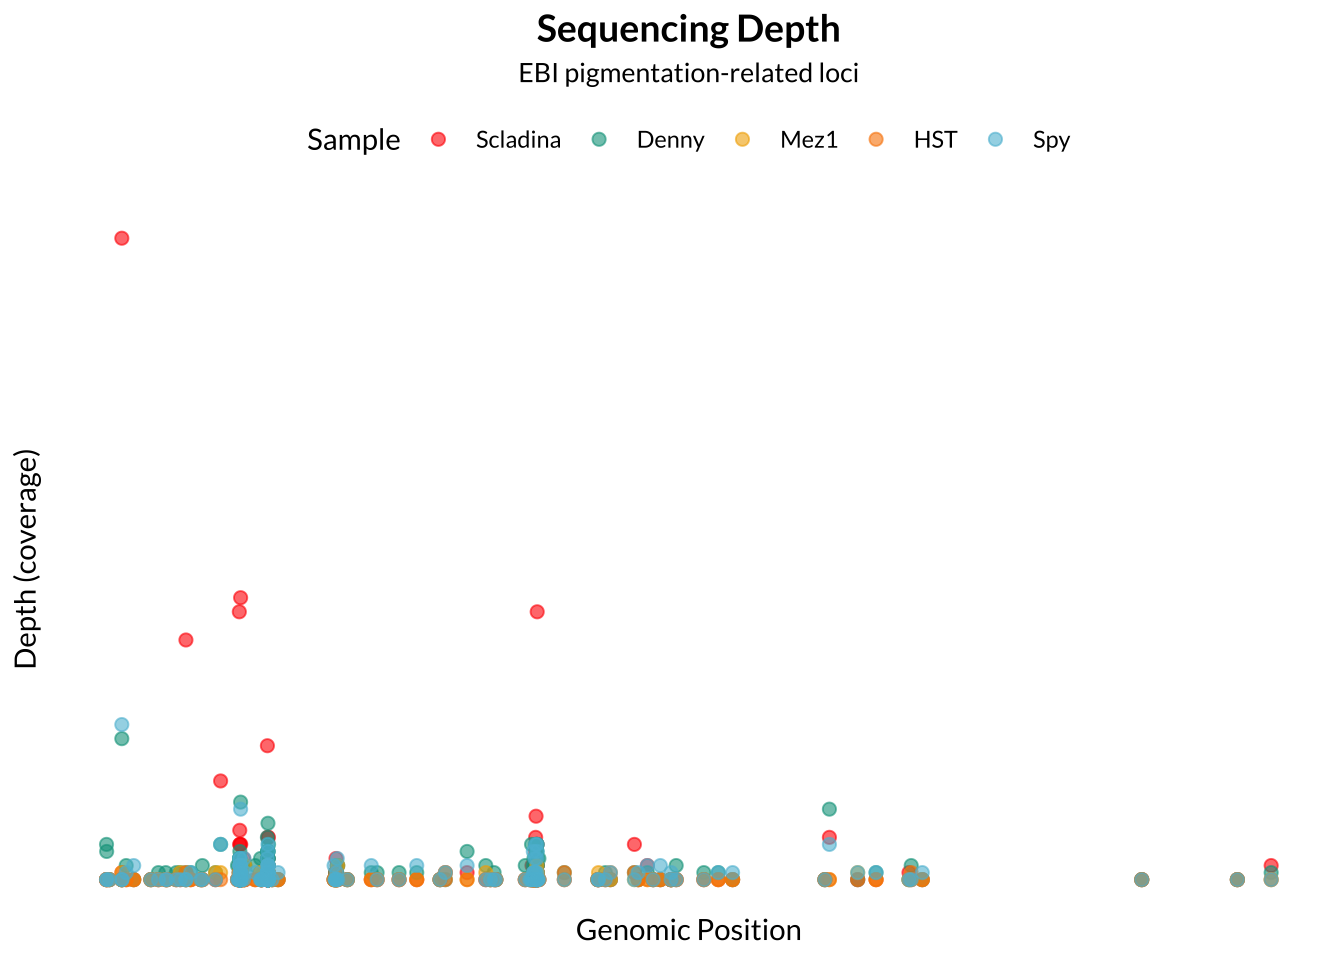
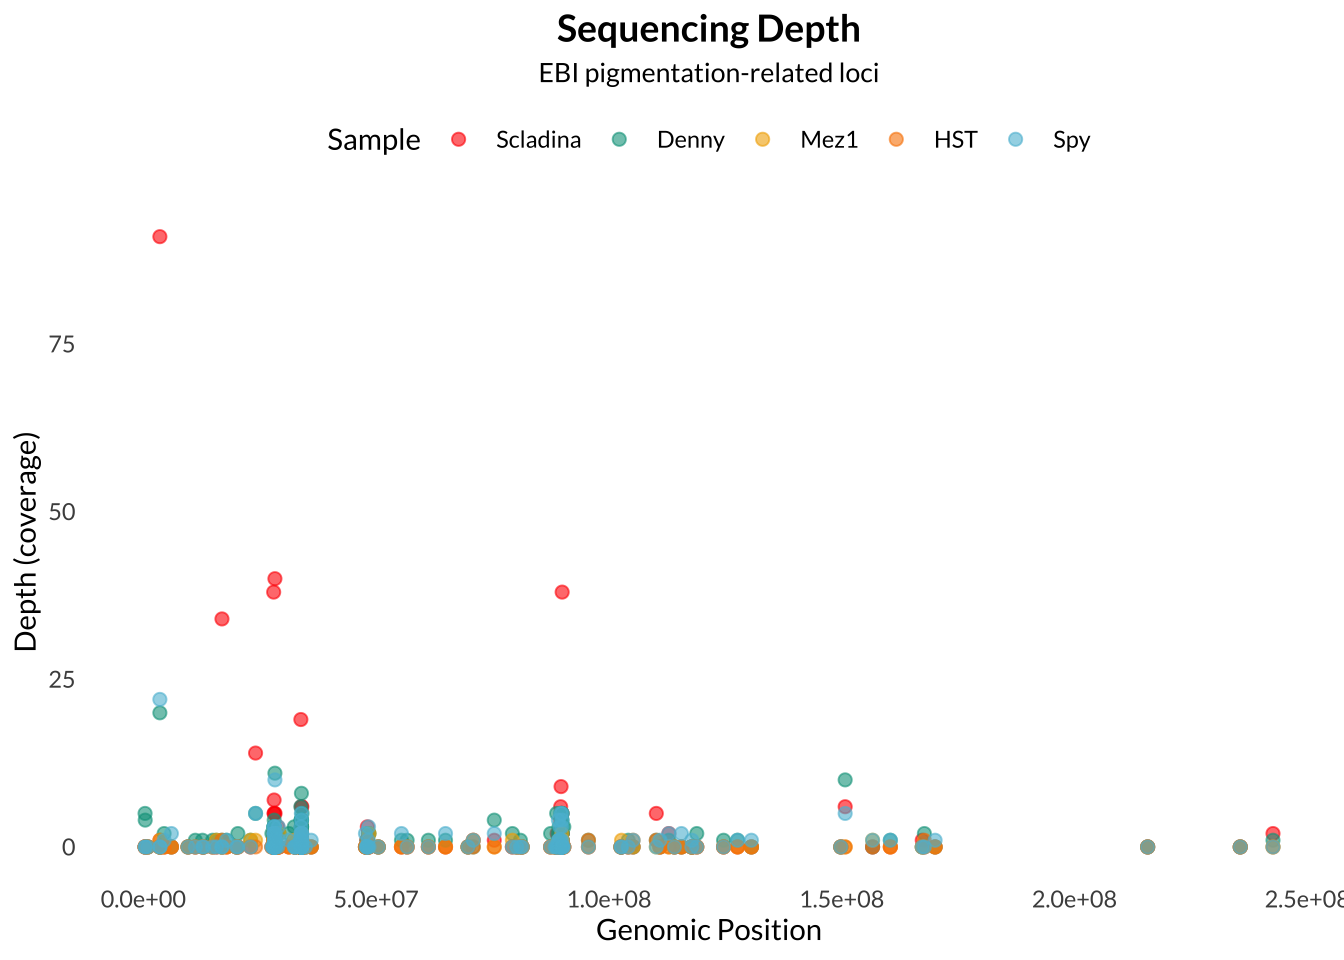
update depth plot

diff --git a/docs/introduction.html b/docs/introduction.html
@@ -364,7 +364,7 @@ div.tocify {
 <p>
 <button type="button" class="btn btn-default btn-workflowr btn-workflowr-report" data-toggle="collapse" data-target="#workflowr-report">
 <span class="glyphicon glyphicon-list" aria-hidden="true"></span>
-workflowr <span class="glyphicon glyphicon-exclamation-sign text-danger"
+workflowr <span class="glyphicon glyphicon-ok text-success"
 aria-hidden="true"></span>
 </button>
 </p>
@@ -375,8 +375,8 @@ aria-hidden="true"></span>
 </li>
 <li>
 <a data-toggle="tab" href="#checks"> Checks <span
-class="glyphicon glyphicon-exclamation-sign text-danger"
-aria-hidden="true"></span> </a>
+class="glyphicon glyphicon-ok text-success" aria-hidden="true"></span>
+</a>
 </li>
 <li>
 <a data-toggle="tab" href="#versions">Past versions</a>
@@ -385,13 +385,13 @@ aria-hidden="true"></span> </a>
 <div class="tab-content">
 <div id="summary" class="tab-pane fade in active">
 <p>
-<strong>Last updated:</strong> 2025-11-07
+<strong>Last updated:</strong> 2025-11-13
 </p>
 <p>
 <strong>Checks:</strong> <span
-class="glyphicon glyphicon-ok text-success" aria-hidden="true"></span> 6
+class="glyphicon glyphicon-ok text-success" aria-hidden="true"></span> 7
 <span class="glyphicon glyphicon-exclamation-sign text-danger"
-aria-hidden="true"></span> 1
+aria-hidden="true"></span> 0
 </p>
 <p>
 <strong>Knit directory:</strong> <code>PAINT/</code> <span
@@ -414,21 +414,18 @@ versions</em> tab lists the development history.
 <div class="panel panel-default">
 <div class="panel-heading">
 <p class="panel-title">
-<a data-toggle="collapse" data-parent="#workflowr-checks" href="#strongRMarkdownfilestronguncommittedchanges">
-<span class="glyphicon glyphicon-exclamation-sign text-danger"
-aria-hidden="true"></span> <strong>R Markdown file:</strong> uncommitted
-changes </a>
+<a data-toggle="collapse" data-parent="#workflowr-checks" href="#strongRMarkdownfilestronguptodate">
+<span class="glyphicon glyphicon-ok text-success"
+aria-hidden="true"></span> <strong>R Markdown file:</strong> up-to-date
+</a>
 </p>
 </div>
-<div id="strongRMarkdownfilestronguncommittedchanges"
+<div id="strongRMarkdownfilestronguptodate"
 class="panel-collapse collapse">
 <div class="panel-body">
-<p>The R Markdown file has unstaged changes. To know which version of
-the R Markdown file created these results, you’ll want to first commit
-it to the Git repo. If you’re still working on the analysis, you can
-ignore this warning. When you’re finished, you can run
-<code>wflow_publish</code> to commit the R Markdown file and build the
-HTML.</p>
+<p>Great! Since the R Markdown file has been committed to the Git
+repository, you know the exact version of the code that produced these
+results.</p>
 </div>
 </div>
 </div>
@@ -519,15 +516,15 @@ project makes it easier to run your code on other machines.</p>
 <div class="panel panel-default">
 <div class="panel-heading">
 <p class="panel-title">
-<a data-toggle="collapse" data-parent="#workflowr-checks" href="#strongRepositoryversionstrongahrefhttpsgithubcomlilyhealdPAINTtree9e0fb40468479c17ade7801e658d6a9305cc1286targetblank9e0fb40a">
+<a data-toggle="collapse" data-parent="#workflowr-checks" href="#strongRepositoryversionstrongahrefhttpsgithubcomlilyhealdPAINTtree1bfb83f5ba97ae4634301c4c3d697ba1fd56f3f2targetblank1bfb83fa">
 <span class="glyphicon glyphicon-ok text-success"
 aria-hidden="true"></span> <strong>Repository version:</strong>
-<a href="https://github.com/lilyheald/PAINT/tree/9e0fb40468479c17ade7801e658d6a9305cc1286" target="_blank">9e0fb40</a>
+<a href="https://github.com/lilyheald/PAINT/tree/1bfb83f5ba97ae4634301c4c3d697ba1fd56f3f2" target="_blank">1bfb83f</a>
 </a>
 </p>
 </div>
 <div
[2 lines of base64/hex data omitted]
 class="panel-collapse collapse">
 <div class="panel-body">
 <p>
@@ -537,7 +534,7 @@ reproducibility.
 </p>
 <p>
 The results in this page were generated with repository version
-<a href="https://github.com/lilyheald/PAINT/tree/9e0fb40468479c17ade7801e658d6a9305cc1286" target="_blank">9e0fb40</a>.
+<a href="https://github.com/lilyheald/PAINT/tree/1bfb83f5ba97ae4634301c4c3d697ba1fd56f3f2" target="_blank">1bfb83f</a>.
 See the <em>Past versions</em> tab to see a history of the changes made
 to the R Markdown and HTML files.
 </p>
@@ -555,9 +552,6 @@ Ignored files:
     Ignored:    .RData
     Ignored:    .Rhistory
     Ignored:    data/neo_uvi.csv
-
-Unstaged changes:
-    Modified:   analysis/introduction.Rmd
 
 </code></pre>
 <p>
@@ -602,6 +596,57 @@ Message
 </tr>
 </thead>
 <tbody>
+<tr>
+<td>
+Rmd
+</td>
+<td>
+<a href="https://github.com/lilyheald/PAINT/blob/1bfb83f5ba97ae4634301c4c3d697ba1fd56f3f2/analysis/introduction.Rmd" target="_blank">1bfb83f</a>
+</td>
+<td>
+Lily Heald
+</td>
+<td>
+2025-11-13
+</td>
+<td>
+update map, axes
+</td>
+</tr>
+<tr>
+<td>
+Rmd
+</td>
+<td>
+<a href="https://github.com/lilyheald/PAINT/blob/a1afed52a14963a225ab8914e943a753d6810415/analysis/introduction.Rmd" target="_blank">a1afed5</a>
+</td>
+<td>
+Lily Heald
+</td>
+<td>
+2025-11-07
+</td>
+<td>
+update visibility
+</td>
+</tr>
+<tr>
+<td>
+html
+</td>
+<td>
+<a href="https://rawcdn.githack.com/lilyheald/PAINT/a1afed52a14963a225ab8914e943a753d6810415/docs/introduction.html" target="_blank">a1afed5</a>
+</td>
+<td>
+Lily Heald
+</td>
+<td>
+2025-11-07
+</td>
+<td>
+update visibility
+</td>
+</tr>
 <tr>
 <td>
 html
@@ -802,16 +847,18 @@ uv_land &lt;- mask(uv_raster, world_sp)
 uv_land_df &lt;- as.data.frame(uv_land, xy = TRUE)
 names(uv_land_df) &lt;- c(&quot;lon&quot;, &quot;lat&quot;, &quot;UVIndex&quot;)</code></pre>
 <pre class="r"><code>sites &lt;- data.frame(
-  name = c(&quot;Denisova&quot;,&quot;Chagyrskaya&quot;,&quot;Vindija&quot;, &quot;Mezmaiskaya&quot;, &quot;Buran-Kaya III&quot;, &quot;El Sidron&quot;, &quot;Spy&quot;),
+  name = c(&quot;Denisova&quot;,&quot;Chagyrskaya&quot;,&quot;Vindija&quot;, &quot;Mezmaiskaya&quot;, &quot;Buran-Kaya III&quot;, 
+           &quot;El Sidron&quot;, &quot;Spy&quot;,&quot;Les Cottés&quot;),
   samples = c(&quot;Denisova 3 (Denisovan)\nDenisova 11 (F1 Hybrid)\n Denisova 5 (Neanderthal)\n Denisova 25 (Denisovan)&quot;,
     &quot;Chagyrskaya 8 (Neanderthal)&quot;,
     &quot;Vindija 33.19 (Neanderthal)&quot;,
     &quot;Mezmaiskaya 1 (Neanderthal)\n Mezmaiskaya 2 (Neanderthal)&quot;, 
     &quot;Buran-Kaya&quot;, 
     &quot;El Sidron&quot;,
-    &quot;Spy 94-a&quot;),
-  lon  = c(84.7, 83.1, 16.8, 40, 35.0, -5.3, 4.7), #E (+) W (-)
-  lat  = c(51.4, 51.3, 46.3, 44.1, 45.0, 43.4, 50.5) #N (+) S (-)
+    &quot;Spy 94-a&quot;,
+    &quot;Les Cottés Z4-1415&quot;),
+  lon  = c(84.7, 83.1, 16.8, 40, 35.0, -5.3, 4.7, 2.5), #E (+) W (-)
+  lat  = c(51.4, 51.3, 46.3, 44.1, 45.0, 43.4, 50.5, 46.2) #N (+) S (-)
 )
 sites_sf &lt;- st_as_sf(sites, coords = c(&quot;lon&quot;,&quot;lat&quot;), crs = 4326)</code></pre>
 <div id="genome-availability" class="section level1">
@@ -829,7 +876,7 @@ ggplot() +
     aes(x = lon, y = lat, label = samples),
     box.padding = 0.7,
     point.padding = 0.3,
-    segment.color = &quot;grey60&quot;,
+    segment.color = &quot;#00008B&quot;,
     segment.size = 0.4,
     fill = alpha(&quot;white&quot;, 0.8),
     label.r = unit(0.2, &quot;lines&quot;),
@@ -947,8 +994,6 @@ ggplot(depth_all, aes(x = Position, y = Depth, color = Sample)) +
     legend.position = &quot;top&quot;,
     legend.background = element_blank(),
     panel.grid = element_blank(),
-    axis.text = element_blank(),
-    axis.ticks = element_blank(),
     plot.title = element_text(size = 14, face = &quot;bold&quot;, hjust = 0.5),
     plot.subtitle = element_text(size = 10, hjust = 0.5)
   )</code></pre>
